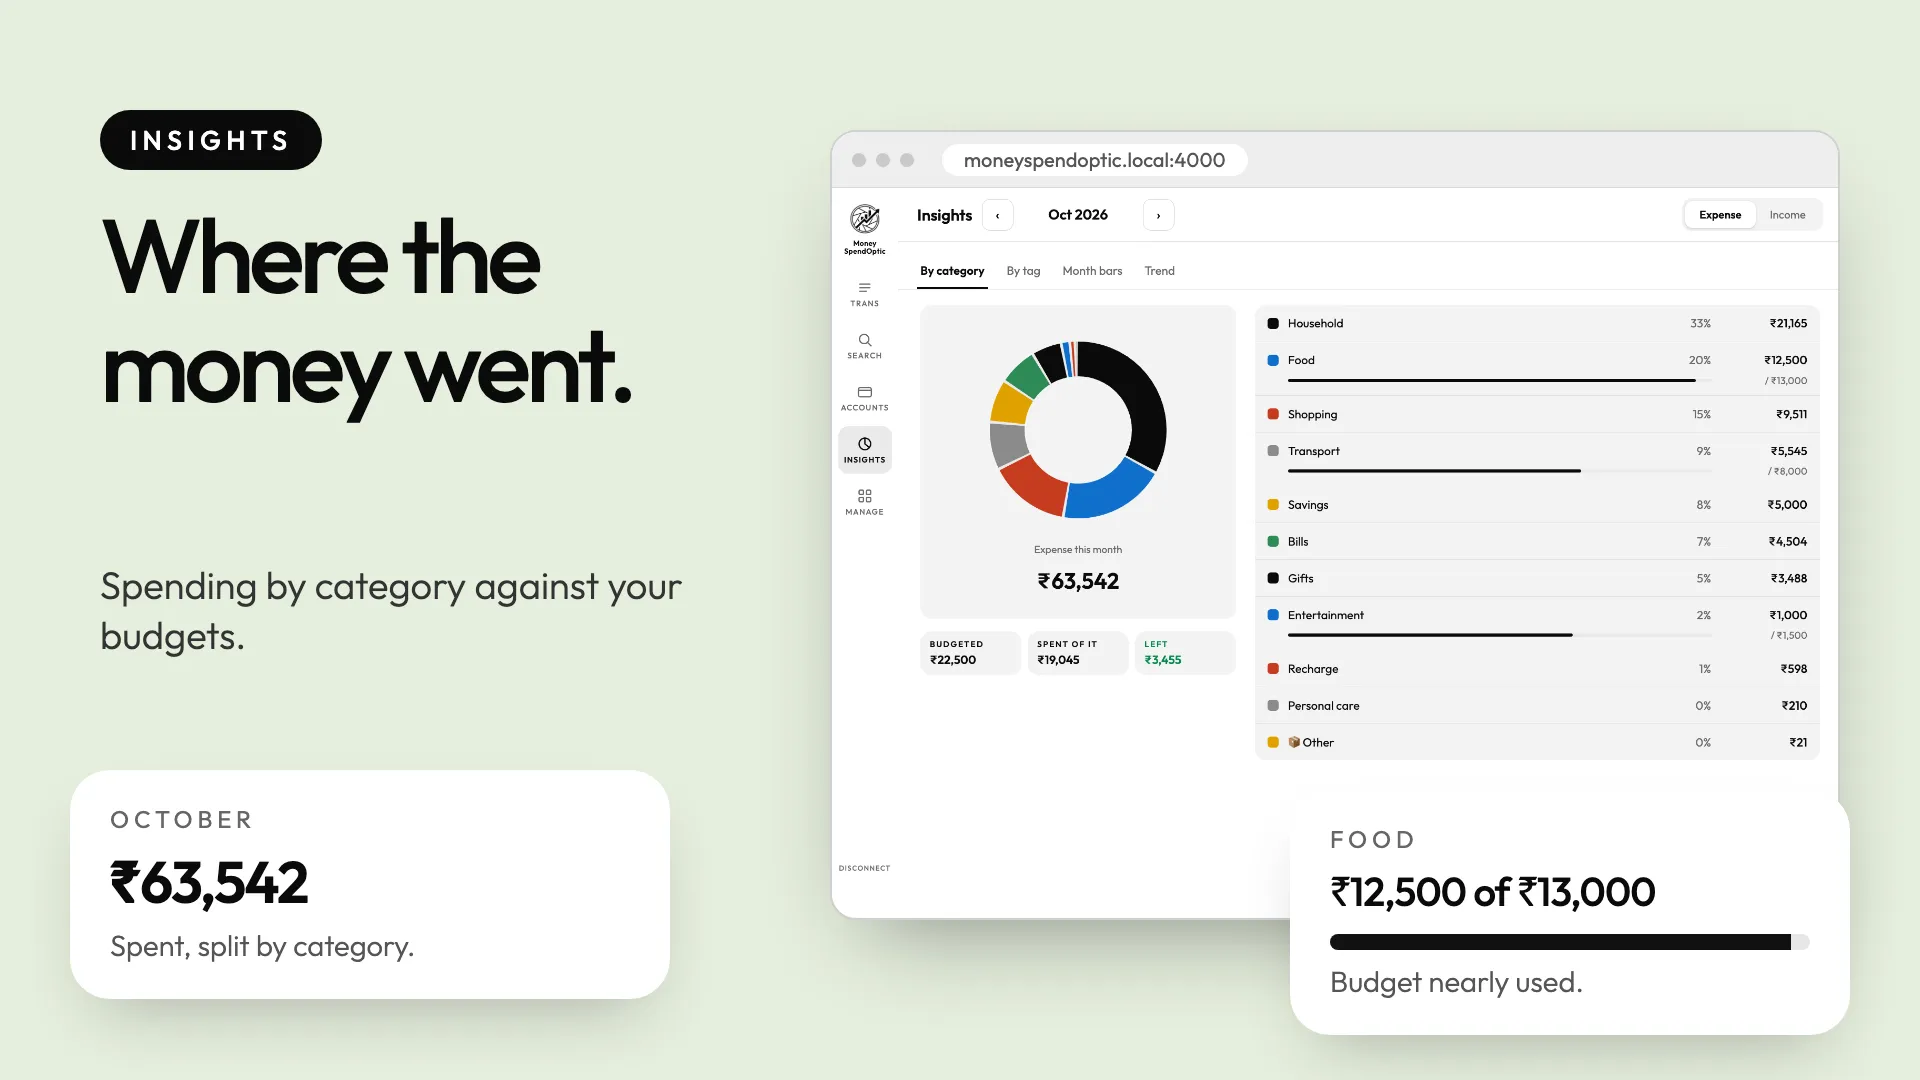
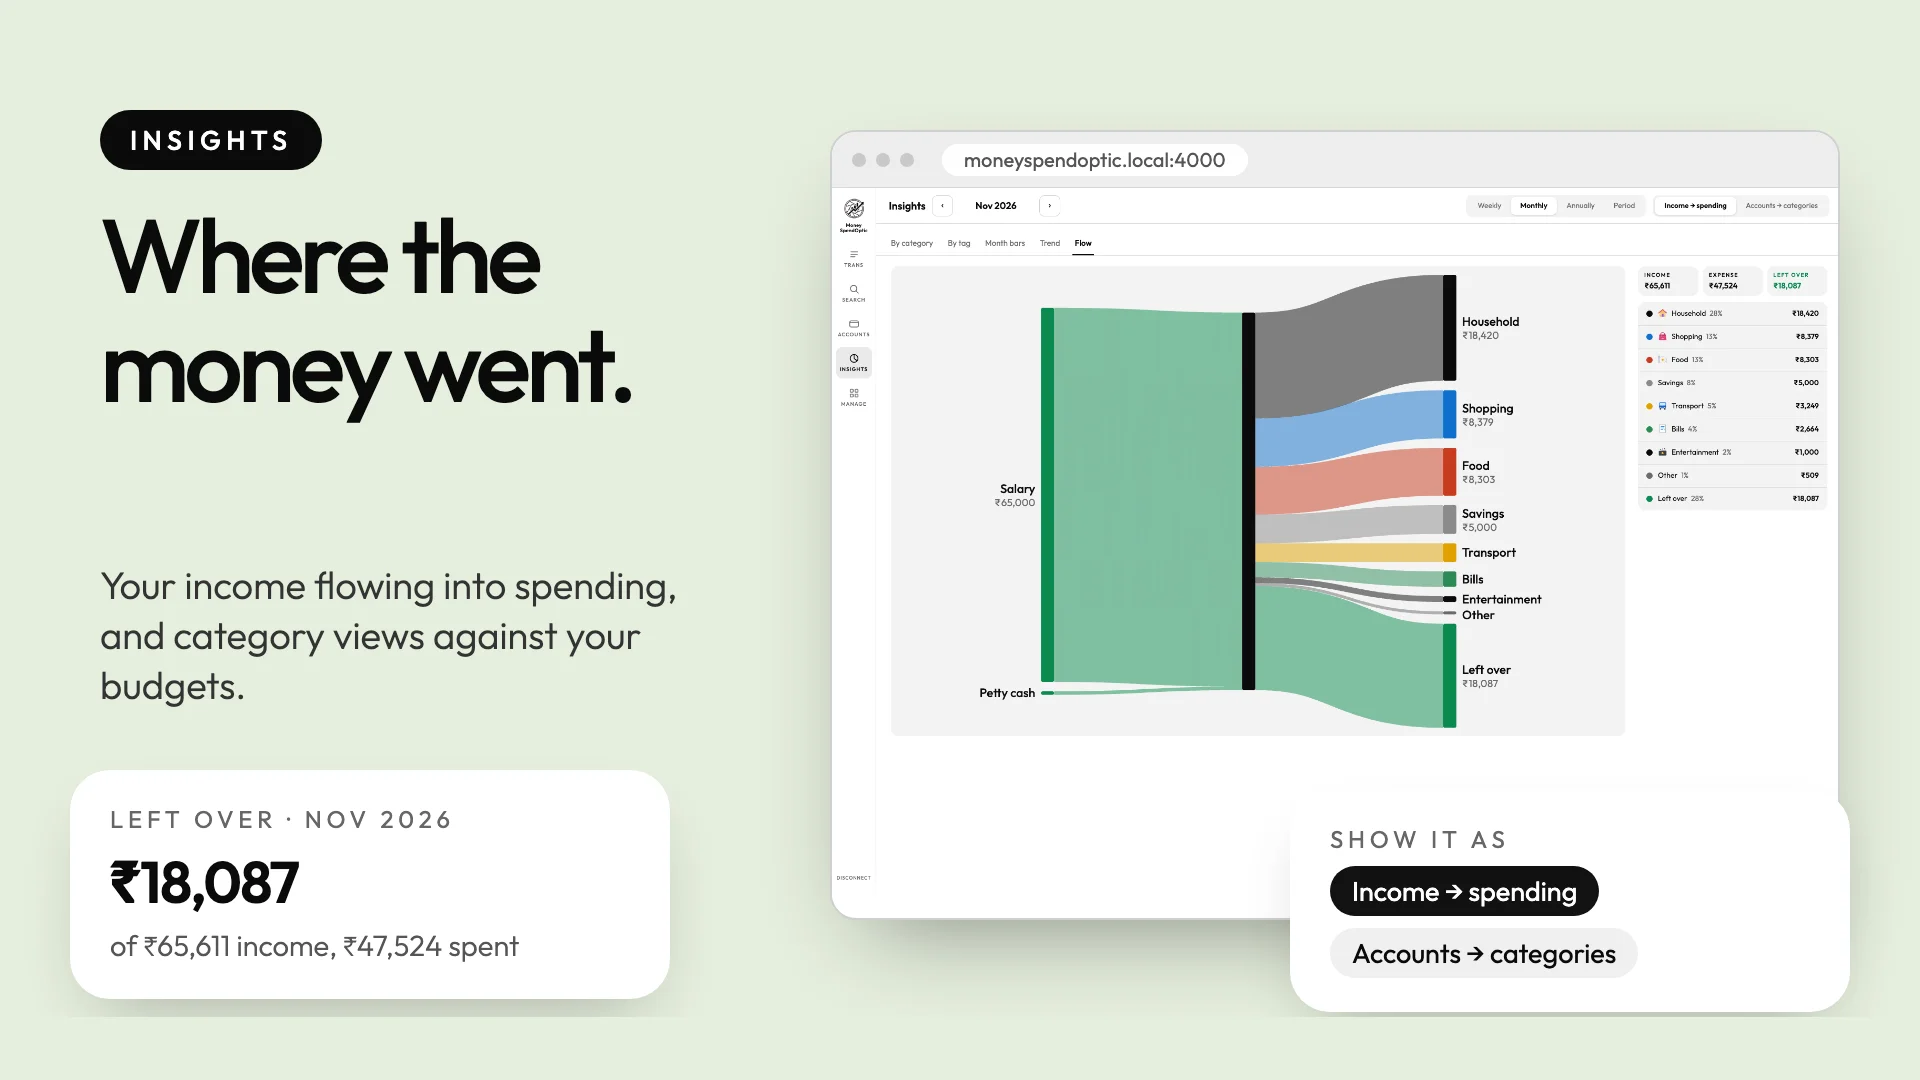
Computer view: flow chart Insights picture, and four new pictures (category page, Excel import, sign-in, dark style)

diff --git a/index.html b/index.html
@@ -453,16 +453,20 @@ footer .data{max-width:1240px;margin:0 auto 18px;font-size:13px;line-height:1.6;
 
 <div class="pcgal" aria-labelledby="pcgTitle">
 <div class="sec-head"><div><div class="label">On the big screen</div><h2 class="pc-h" id="pcgTitle">What the computer view shows.</h2></div>
-<p class="sec-note">Eight pages from the computer view. Swipe, or tap a picture to enlarge it.</p></div>
+<p class="sec-note">Twelve pages from the computer view. Swipe, or tap a picture to enlarge it.</p></div>
 <ul class="gal pcg" id="pcgal" tabindex="0" aria-label="Computer view pictures">
 <li><img src="screens/pc-transactions.webp" width="560" height="315" alt="The computer page, Transactions: entries by day with the month's income, expense and total, upcoming payments and notes." loading="lazy" decoding="async"><h3>Transactions</h3><p>Every entry by day, with income, expense and total on top, upcoming payments and your notes beside it.</p></li>
 <li><img src="screens/pc-accounts.webp" width="560" height="315" alt="The computer page, Accounts: groups with balances and card limits, and the chosen account's page beside the list." loading="lazy" decoding="async"><h3>Accounts</h3><p>All your accounts in groups with balances and card limits, and the chosen account's page beside the list.</p></li>
 <li><img src="screens/pc-account.webp" width="560" height="315" alt="The computer page, one account: balance card, upcoming payments and entries by day, with Repeat and installments." loading="lazy" decoding="async"><h3>Account page</h3><p>Daily, Monthly, Yearly and Details for one account, with upcoming payments and a Repeat and installments button.</p></li>
-<li><img src="screens/pc-insights.webp" width="560" height="315" alt="The computer page, Insights: spending by category as a ring and a list, with budgets." loading="lazy" decoding="async"><h3>Insights</h3><p>Spending by category against your budgets, with tags, month bars, a trend and a flow chart.</p></li>
+<li><img src="screens/pc-insights.webp" width="560" height="315" alt="The computer page, Insights: the flow chart of income into spending, with the totals and the list beside it." loading="lazy" decoding="async"><h3>Insights</h3><p>Your income flowing into spending, or which account paid for what, plus category, tag, month bars and trend views.</p></li>
+<li><img src="screens/pc-category.webp" width="560" height="315" alt="The computer page, a category page: months as bars, subcategories and every entry in a panel beside the Insights list." loading="lazy" decoding="async"><h3>Category page</h3><p>Open a category for its months, subcategories and every entry, in a panel beside the list.</p></li>
 <li><img src="screens/pc-reminders.webp" width="560" height="315" alt="The computer page with the Reminders bell open: Reminders and Payments, with View, Snooze and Dismiss." loading="lazy" decoding="async"><h3>Reminders</h3><p>The same bell as on your phone: card bills, EMIs and low balance, with View, Snooze and Dismiss.</p></li>
 <li><img src="screens/pc-add-several.webp" width="560" height="315" alt="The computer page, Add several: rows for amount, category and note, with a Save entries button." loading="lazy" decoding="async"><h3>Add several</h3><p>Type many entries in one go on a big screen, then save them together.</p></li>
 <li><img src="screens/pc-search.webp" width="560" height="315" alt="The computer page, Search: results for a word across months, with the number found and totals." loading="lazy" decoding="async"><h3>Search</h3><p>Search notes and descriptions across every month, with the total found.</p></li>
 <li><img src="screens/pc-manage.webp" width="560" height="315" alt="The computer page, Manage: a menu of categories, tags, accounts, budgets, repeats and settings, with the category list." loading="lazy" decoding="async"><h3>Manage</h3><p>Categories, tags, accounts and groups, budgets, repeats, notes, backup and settings.</p></li>
+<li><img src="screens/pc-excel-import.webp" width="560" height="315" alt="The computer page, Import from Excel: the review step with rows ready to add." loading="lazy" decoding="async"><h3>Excel import</h3><p>Match the columns and review every row before it is added.</p></li>
+<li><img src="screens/pc-connect.webp" width="560" height="315" alt="The computer page sign-in: a QR code to scan with the phone, or a 6-digit code to type." loading="lazy" decoding="async"><h3>Sign in</h3><p>Scan the QR code with your phone or type the 6-digit code.</p></li>
+<li><img src="screens/pc-dark.webp" width="560" height="315" alt="The computer page in the Dark style, showing Insights with the flow chart." loading="lazy" decoding="async"><h3>Your style</h3><p>The page follows your phone: Dark, Light and the colour styles.</p></li>
 </ul>
 <div class="ctrl gal-ctrl">
 <button type="button" class="arrow btn" id="pcgPrev" aria-label="Previous pictures"><svg width="22" height="22" viewBox="0 0 24 24" aria-hidden="true"><path d="M15 5l-7 7 7 7" fill="none" stroke="currentColor" stroke-width="2" stroke-linecap="round" stroke-linejoin="round"/></svg></button>

diff --git a/computer-view.html b/computer-view.html
@@ -131,7 +131,7 @@ article h3{font-weight:500;font-size:19px;color:var(--ink);margin-top:10px;line-
 <p>The page stays locked until the code is entered. Turning sharing off, or closing the app, stops the address working.</p>
 <h2 id="what-you-can-do">What you can do</h2>
 <p>Add, add several and edit transactions, look at Insights and Accounts, use the Reminders bell, search notes across months, and in Manage change categories, tags, budgets and repeats, download a backup, and export or import Excel.</p>
-<div class="figs"><figure class="wide"><img src="screens/pc-transactions.webp" width="1920" height="1080" alt="The computer page, Transactions: entries by day with the month&#x27;s income, expense and total." loading="lazy" decoding="async"><figcaption>Transactions by day.</figcaption></figure><figure class="wide"><img src="screens/pc-accounts.webp" width="1920" height="1080" alt="The computer page, Accounts: groups with balances and card limits." loading="lazy" decoding="async"><figcaption>Accounts and balances.</figcaption></figure><figure class="wide"><img src="screens/pc-insights.webp" width="1920" height="1080" alt="The computer page, Insights: spending by category with budgets." loading="lazy" decoding="async"><figcaption>Insights.</figcaption></figure></div>
+<div class="figs"><figure class="wide"><img src="screens/pc-transactions.webp" width="1920" height="1080" alt="The computer page, Transactions: entries by day with the month&#x27;s income, expense and total." loading="lazy" decoding="async"><figcaption>Transactions by day.</figcaption></figure><figure class="wide"><img src="screens/pc-accounts.webp" width="1920" height="1080" alt="The computer page, Accounts: groups with balances and card limits." loading="lazy" decoding="async"><figcaption>Accounts and balances.</figcaption></figure><figure class="wide"><img src="screens/pc-insights.webp" width="1920" height="1080" alt="The computer page, Insights: the flow chart of income into spending, with the totals and the list beside it." loading="lazy" decoding="async"><figcaption>Insights, with the flow chart.</figcaption></figure><figure class="wide"><img src="screens/pc-category.webp" width="1920" height="1080" alt="The computer page, a category page: months as bars, subcategories and every entry in a panel beside the Insights list." loading="lazy" decoding="async"><figcaption>A category page beside the list.</figcaption></figure><figure class="wide"><img src="screens/pc-excel-import.webp" width="1920" height="1080" alt="The computer page, Import from Excel: the review step with rows ready to add." loading="lazy" decoding="async"><figcaption>Review an Excel sheet before it is added.</figcaption></figure><figure class="wide"><img src="screens/pc-connect.webp" width="1920" height="1080" alt="The computer page sign-in: a QR code to scan with the phone, or a 6-digit code to type." loading="lazy" decoding="async"><figcaption>Sign in with a QR code or a 6-digit code.</figcaption></figure><figure class="wide"><img src="screens/pc-dark.webp" width="1920" height="1080" alt="The computer page in the Dark style, showing Insights with the flow chart." loading="lazy" decoding="async"><figcaption>The page follows your phone style.</figcaption></figure></div>
 <h2 id="privacy">Private by design</h2>
 <p>Your data stays on your phone and your home network. Nothing is uploaded. Use it on a home or office Wi-Fi only: the page is not encrypted, and the app warns you when the network looks public. Both devices must be on the same network.</p>
 <h2 id="premium">Premium</h2>
